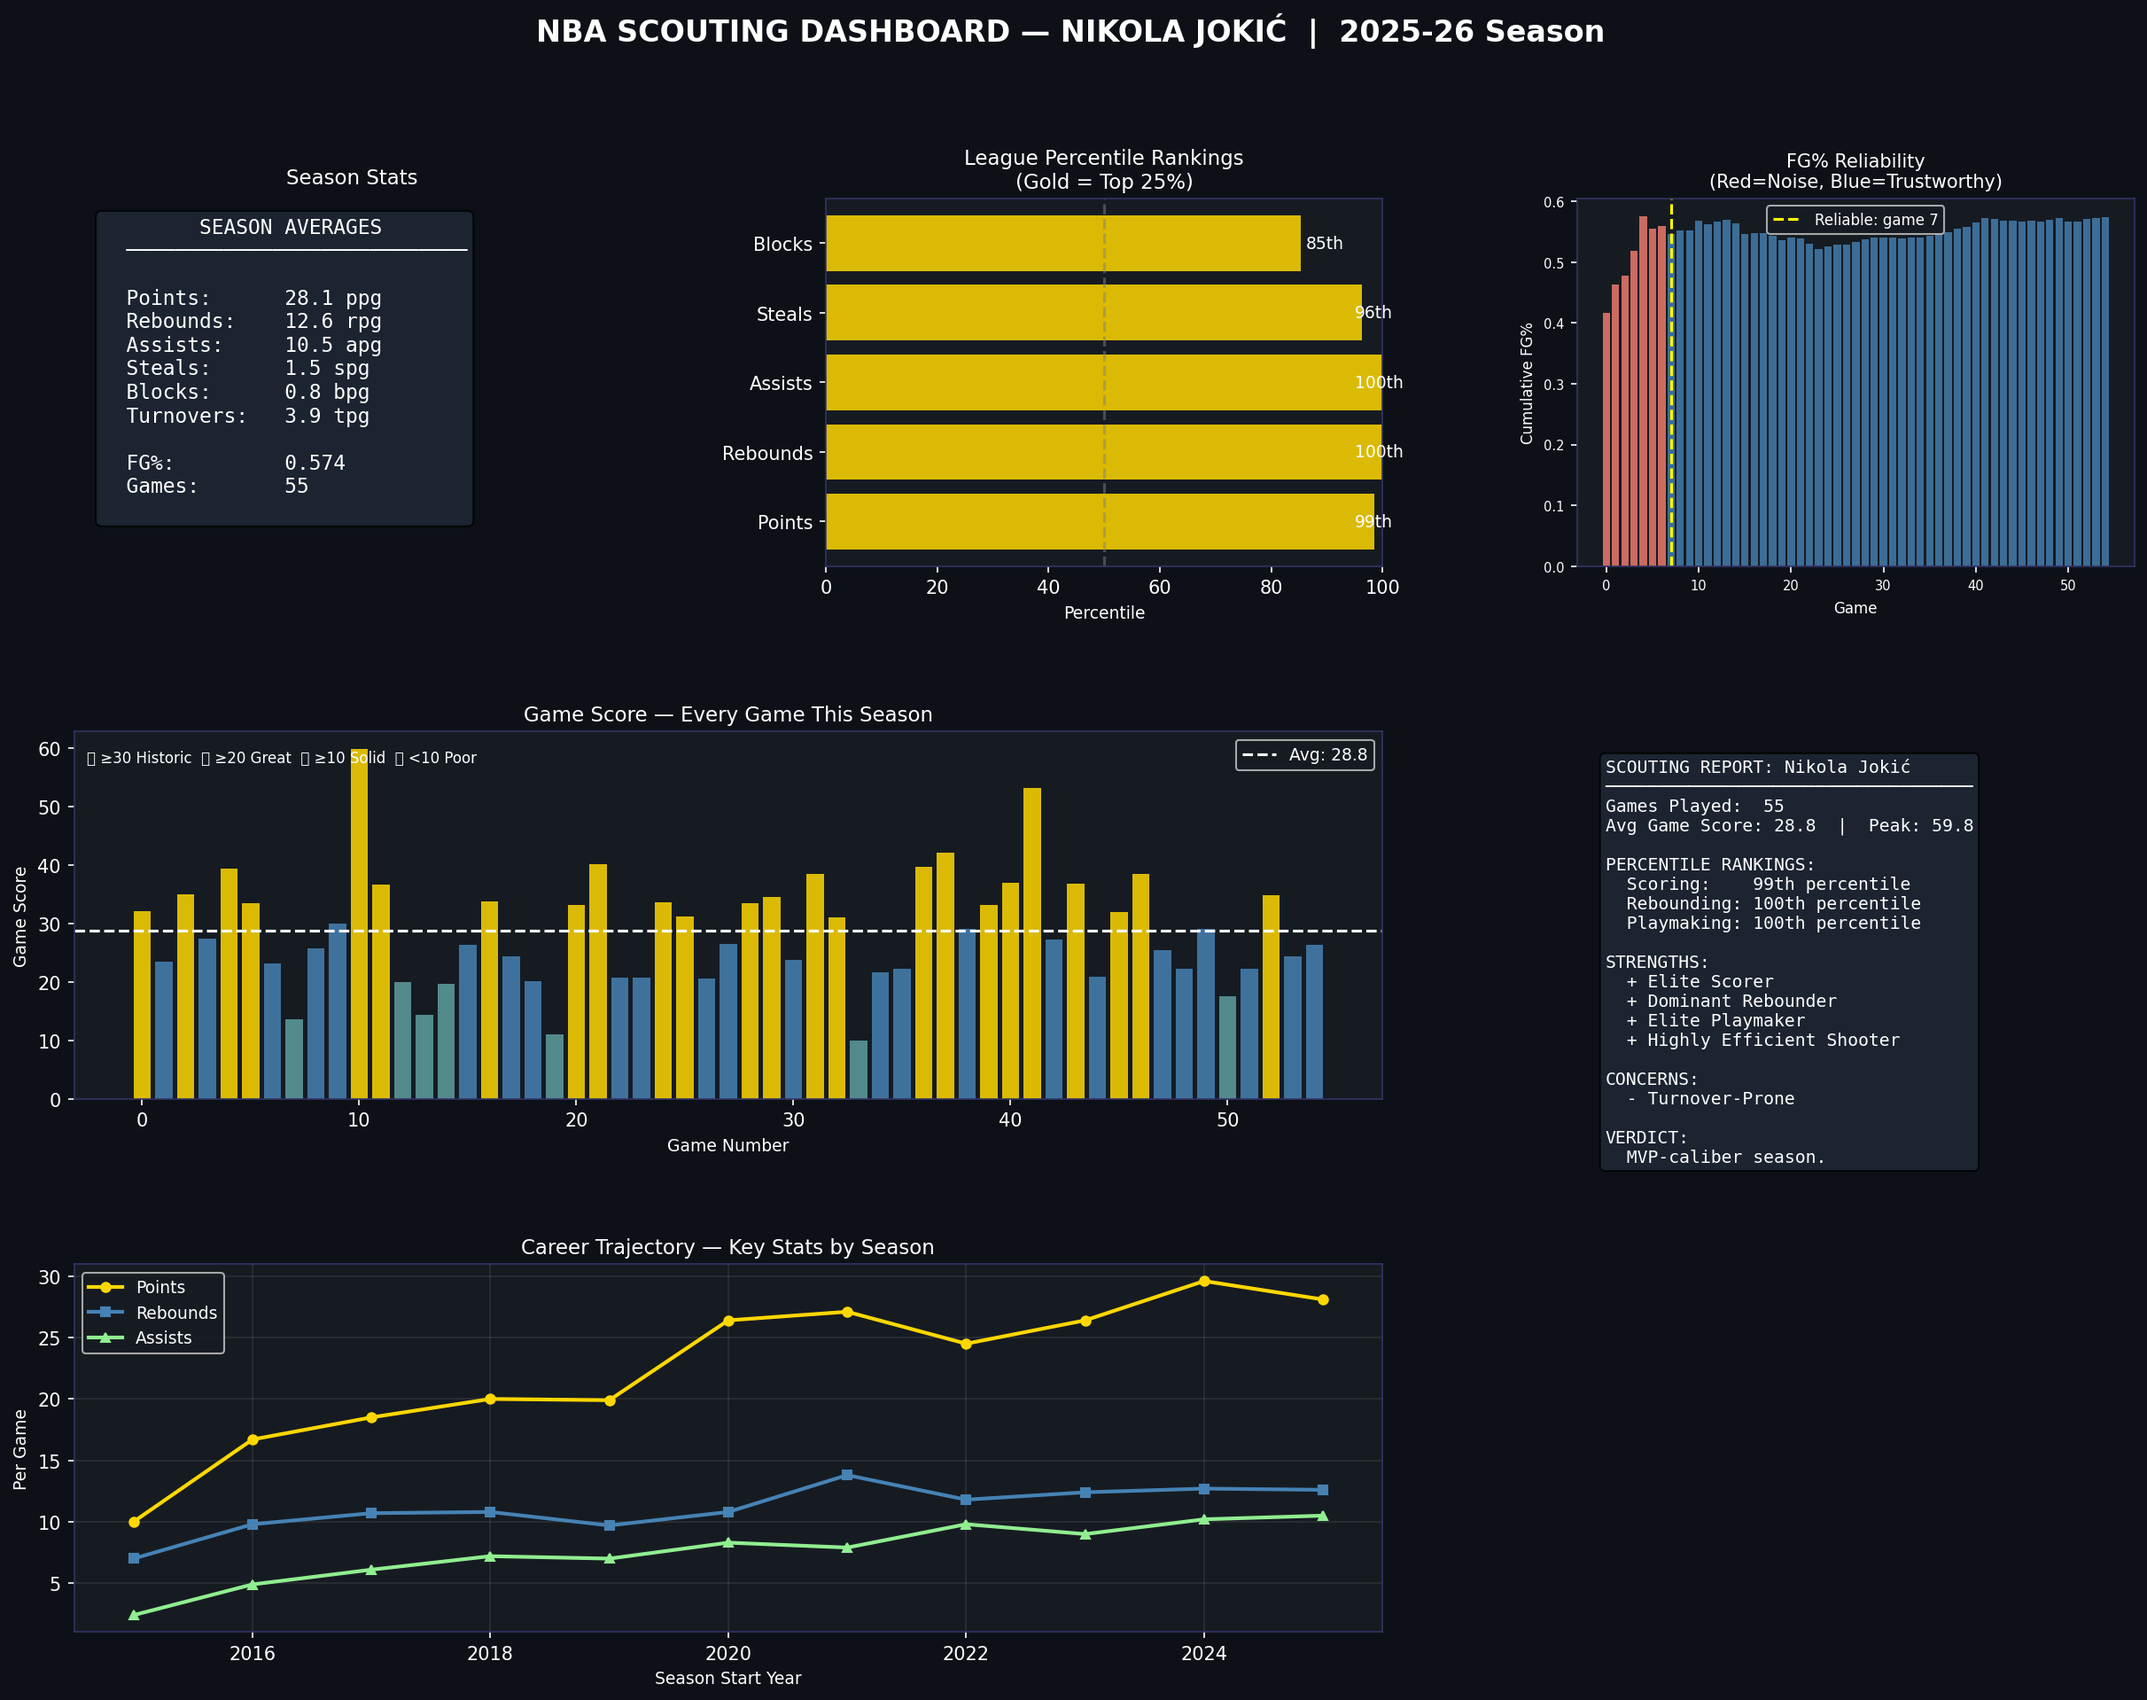
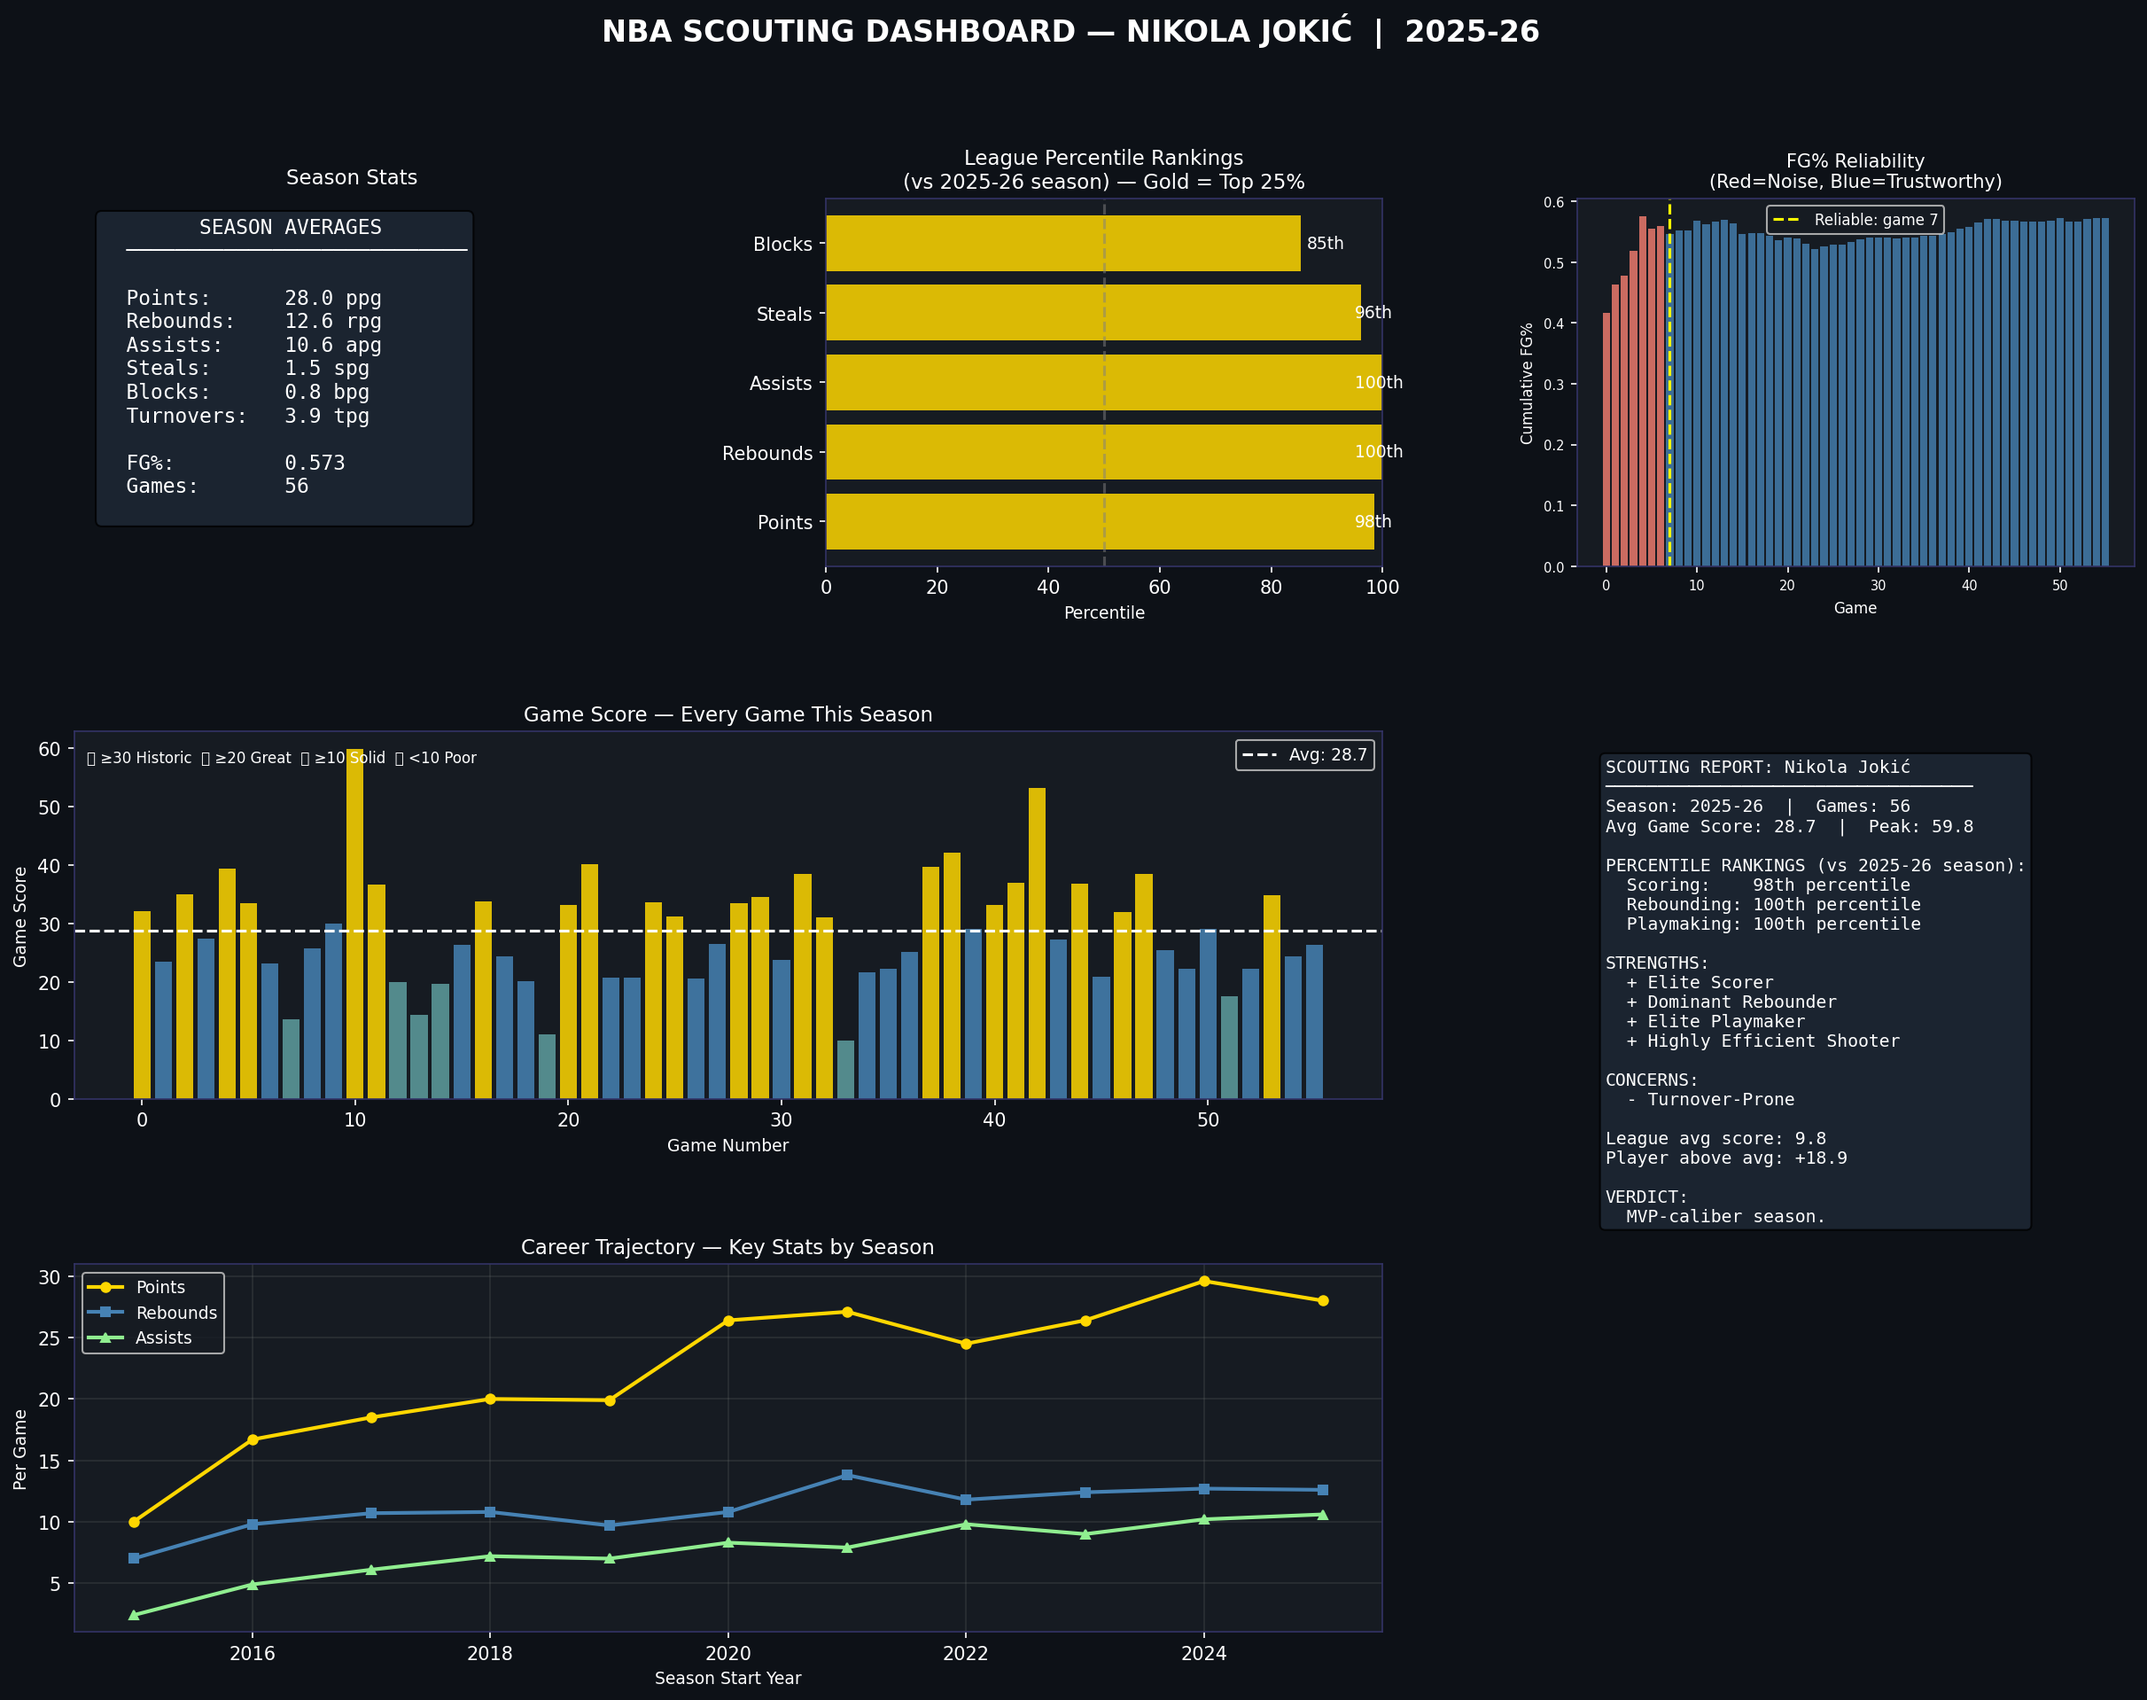
Era-adjusted verdicts in scouting dashboard

diff --git a/scouting_dashboard.py b/scouting_dashboard.py
@@ -7,7 +7,7 @@ import numpy as np
 from scipy import stats
 import time
 
-PLAYER_NAME = "Michael Jordan"
+PLAYER_NAME = "Nikola Jokić"
 
 def get_player_id(name):
     all_players = players.get_players()
@@ -185,11 +185,26 @@ if weaknesses:
     summary_lines.append("CONCERNS:")
     for w in weaknesses:
         summary_lines.append(f"  - {w.title()}")
+# Era-adjusted verdict
+# Calculate league average game score for context
+league_gs_avg = (
+    (df_league["PTS"] * 1.0) +
+    (df_league["REB"] * 1.2) +
+    (df_league["AST"] * 1.5) +
+    (df_league["STL"] * 2.0) +
+    (df_league["BLK"] * 1.3)
+) * df_league["FG_PCT"]
+league_gs_mean = league_gs_avg.mean()
+gs_above_avg = gs_avg - league_gs_mean
+
+summary_lines.append("")
+summary_lines.append(f"League avg score: {league_gs_mean:.1f}")
+summary_lines.append(f"Player above avg: +{gs_above_avg:.1f}")
 summary_lines.append("")
 summary_lines.append("VERDICT:")
-if gs_avg >= 25: summary_lines.append("  MVP-caliber season.")
-elif gs_avg >= 18: summary_lines.append("  All-Star caliber season.")
-elif gs_avg >= 12: summary_lines.append("  Solid starter.")
+if gs_above_avg >= 8: summary_lines.append("  MVP-caliber season.")
+elif gs_above_avg >= 5: summary_lines.append("  All-Star caliber season.")
+elif gs_above_avg >= 2: summary_lines.append("  Solid starter.")
 else: summary_lines.append("  Rotation player.")
 
 # ── Build Dashboard ────────────────────────────────────────
